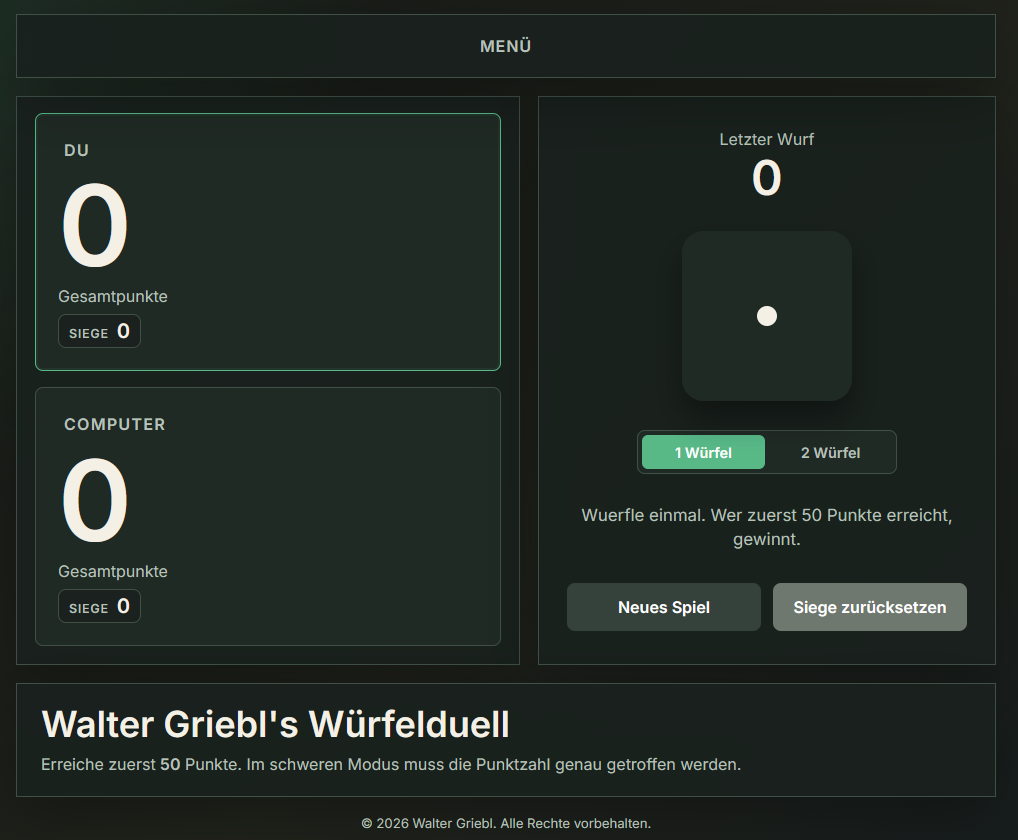
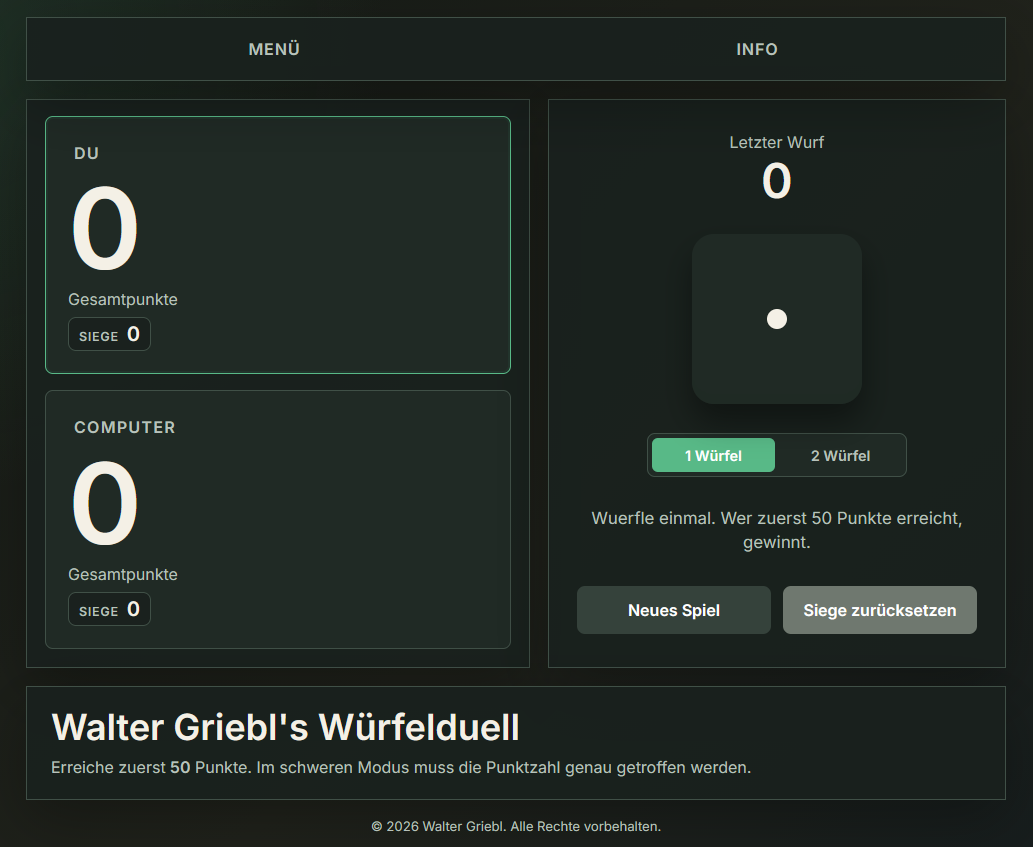
Update Webseite

diff --git a/README.md b/README.md
@@ -1,30 +1,22 @@
-# Walter Griebl's Wuerfelduell
+# Walter Griebl's Würfelduell
 
-Ein kleines Wuerfelspiel fuer Web und Mobile. Zwei Spieler treten gegeneinander an und versuchen, zuerst die festgelegte Punktzahl zu erreichen.
+Ein kleines, mobiles Würfelspiel für Web und Smartphone.
+Spiele alleine gegen den Computer oder lokal zu zweit am selben Gerät.
 
-Fuer ein besseres Spielerlebnis am Smartphone kann die Webseite auf dem Home-Bildschirm gespeichert und wie eine App genutzt werden.
+![Screenshot von Walter Griebl's Würfelduell](screenshot.png)
 
-![Screenshot vom Wuerfelduell](screenshot.png)
+## Features
 
-## Funktionen
-
-- Spiel gegen den Computer im Singleplayer
-- Multiplayer-Modus fuer zwei Spieler am selben Geraet
-- Spielernamen direkt im Spielfeld aendern
-- Wahl zwischen 1 Wuerfel und 2 Wuerfeln
-- Zielpunkte frei festlegen
-- Schwierigkeitsgrad Normal oder Schwer
-- Im schweren Modus muss die Zielpunktzahl genau getroffen werden
-- Automatische Begrenzung auf 1 Wuerfel, wenn 2 Wuerfel im schweren Modus zu viel waeren
-- Wuerfelanimation fuer mehr Spannung
-- Siegzaehler fuer beide Spieler
-- Hell- und Dunkelansicht
-- Fuer Web und Mobile optimiert
-- Als Web-App auf dem Smartphone nutzbar
+- Singleplayer gegen Computer
+- Multiplayer am selben Gerät
+- 1 oder 2 Würfel
+- Normal- und Schwer-Modus
+- Soundeffekte
+- Hell-/Dunkelmodus
+- gespeicherte Siege
+- installierbar als Web-App
 
 ## Online Spielen
-
-Die Webseite laeuft ueber GitHub Pages:
 
 https://waltergriebl-blip.github.io/wuerfelduell/
 
@@ -32,4 +24,4 @@ https://waltergriebl-blip.github.io/wuerfelduell/
 
 Copyright © 2026 Walter Griebl. Alle Rechte vorbehalten.
 
-Dieses Projekt darf ohne ausdrueckliche Erlaubnis nicht kopiert, veraendert, veroeffentlicht oder kommerziell genutzt werden.
+Dieses Projekt darf ohne ausdrückliche Erlaubnis nicht kopiert, verändert, veröffentlicht oder kommerziell genutzt werden.
